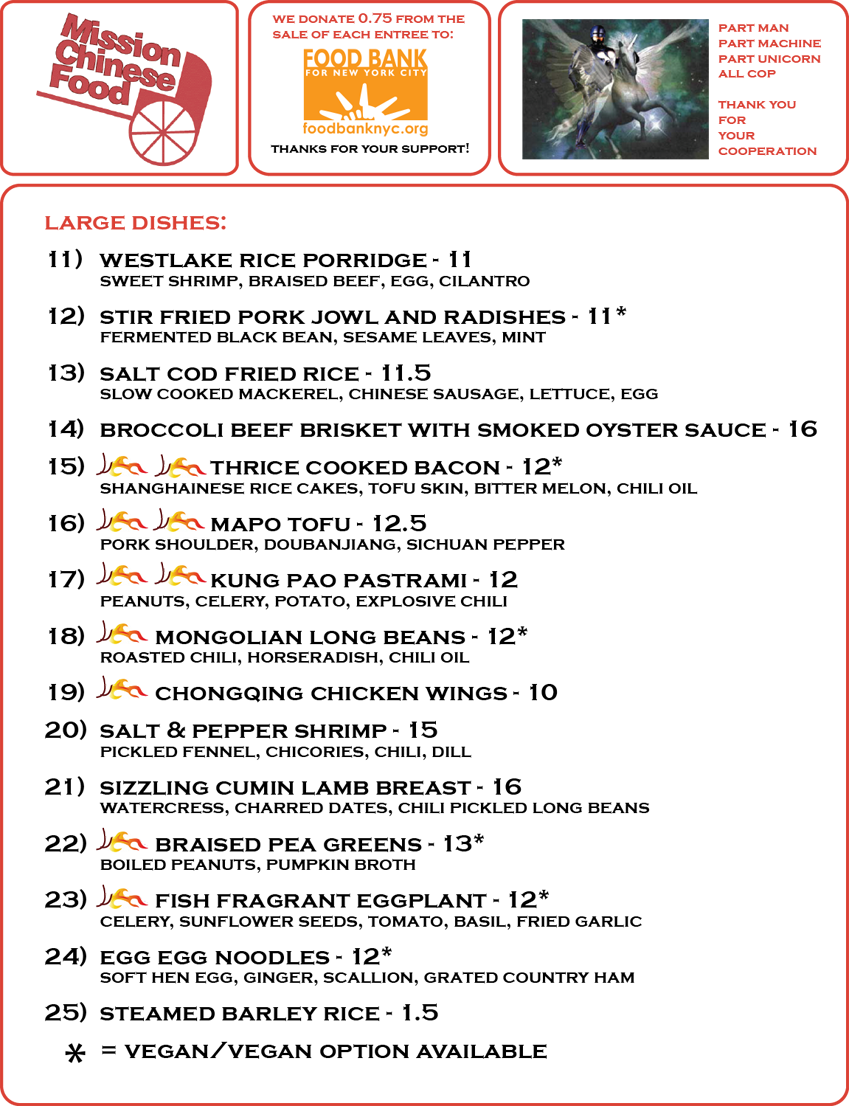
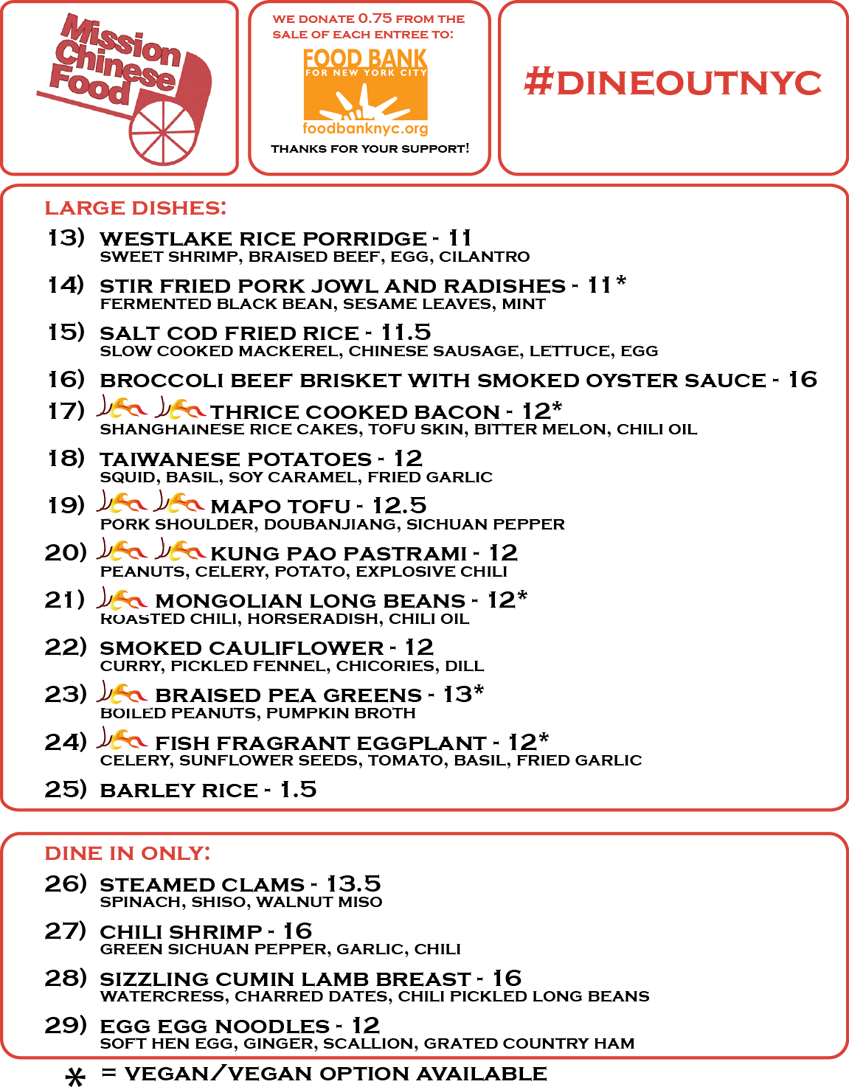
Update NY menu

Changed region(s): [[0.0, 0.0, 1.0, 1.0]]

diff --git a/ny/index.html b/ny/index.html
@@ -53,8 +53,8 @@ body {
 <body>
 
 <div id="menu">
-	<img class="well" src="/static/img/nymenu1.png?v=2" alt="Menu"  width="849" height="1125" />
-	<img class="well" src="/static/img/nymenu2.png?v=2" alt="Menu"  width="849" height="1106" />
+	<img class="well" src="/static/img/nymenu1.png?v=3" alt="Menu"  width="849" height="1158" />
+	<img class="well" src="/static/img/nymenu2.png?v=3" alt="Menu"  width="849" height="1087" />
 	<p id="footer">154 ORCHARD ST NY NY 10002 BETWEEN RIVINGTON &amp; STANTON ST</p>
 </div>
 
